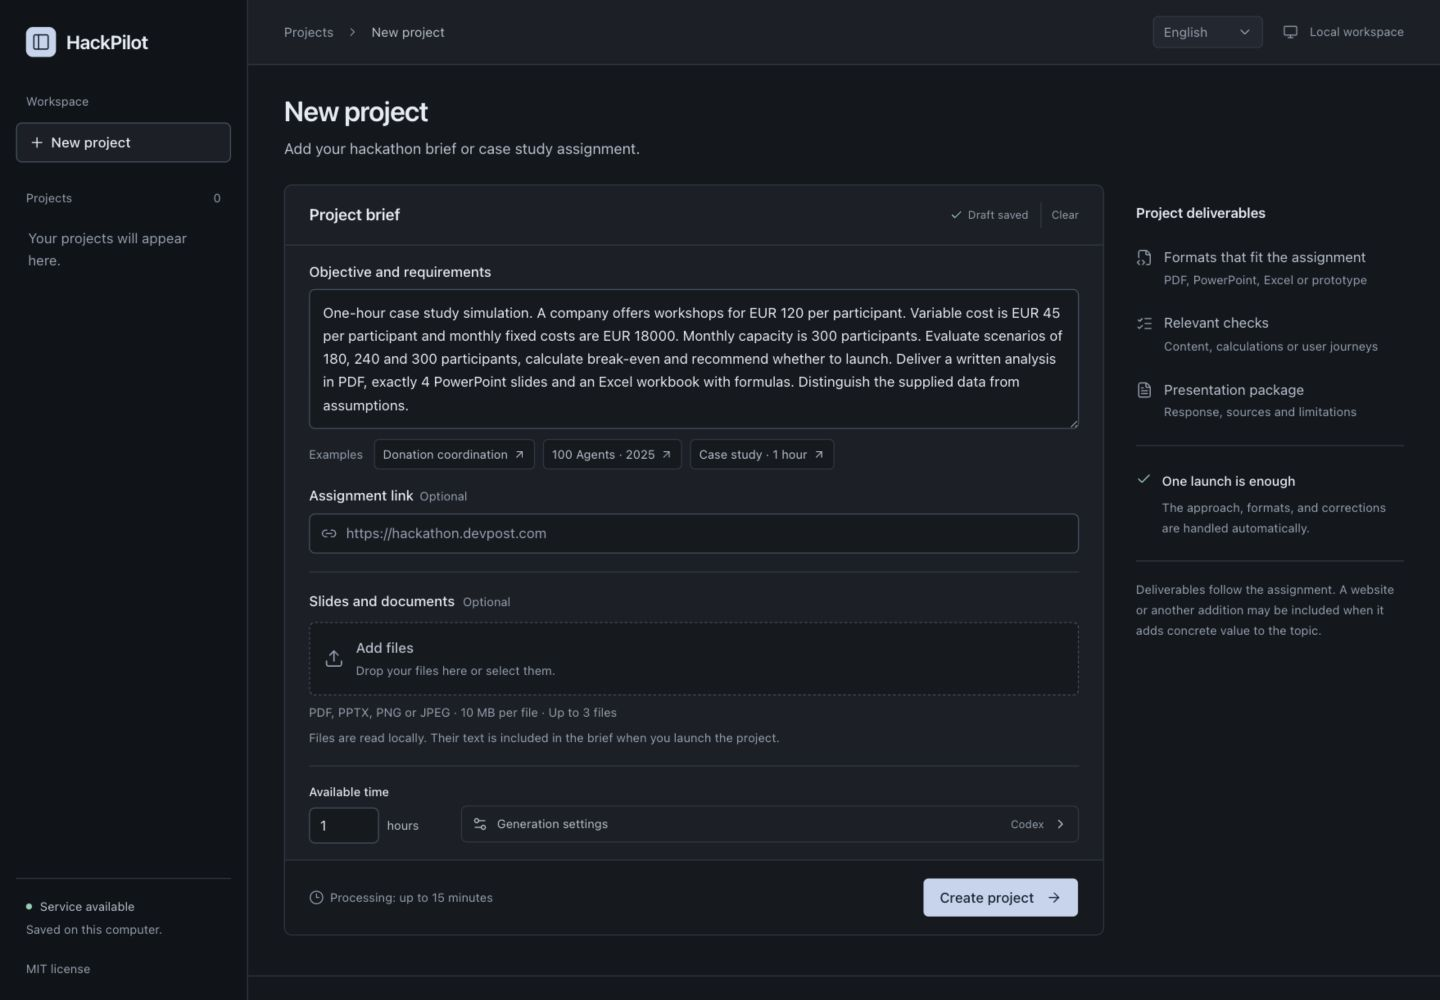
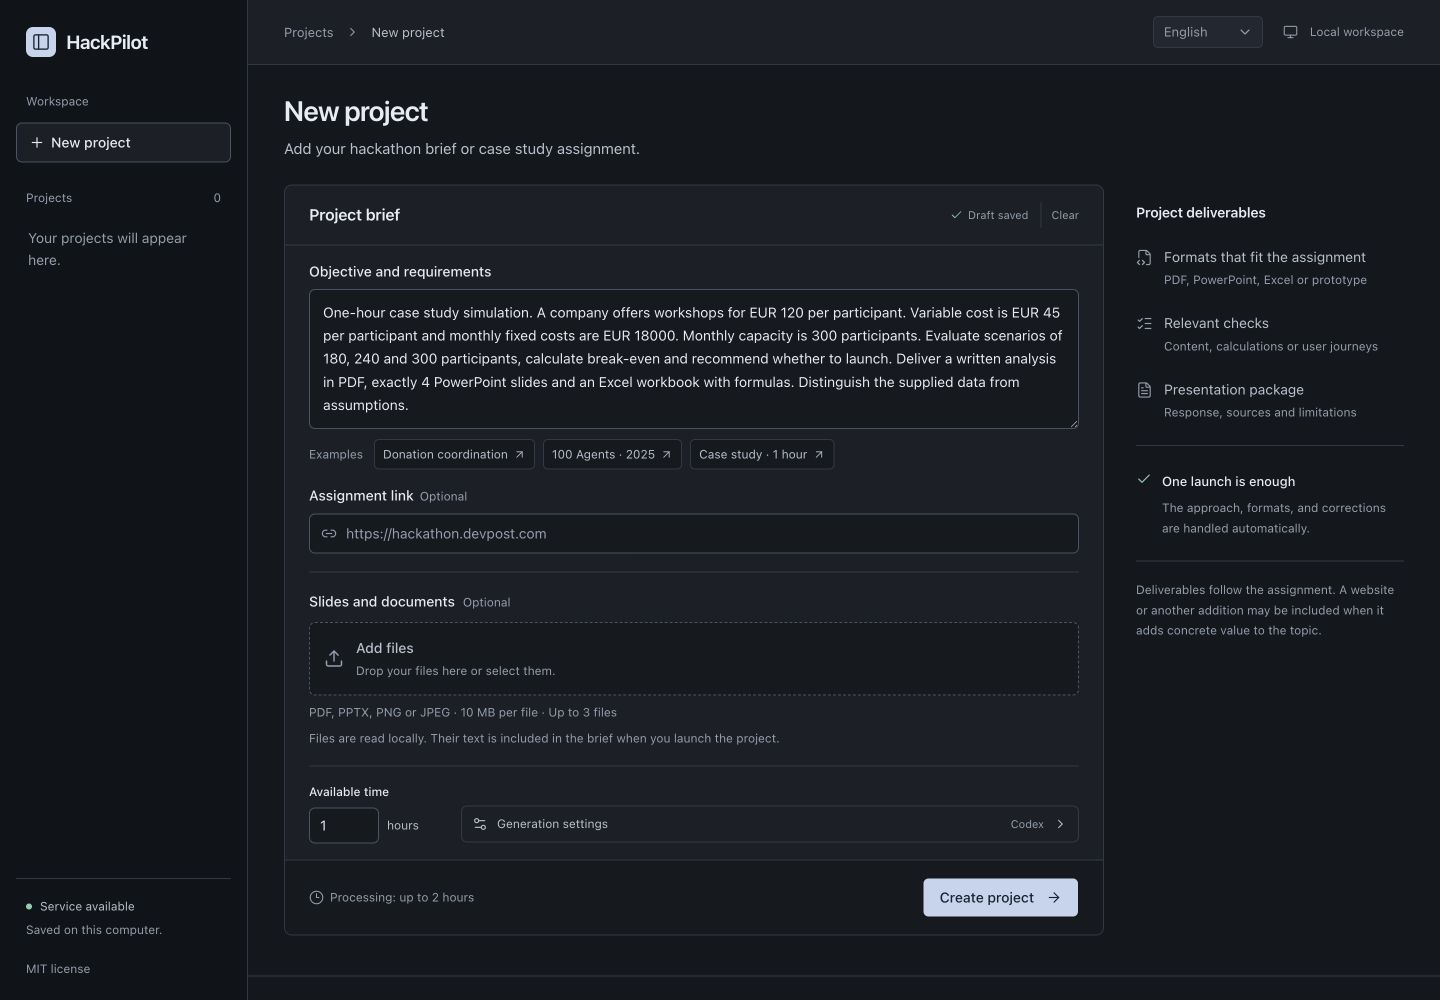
Extend execution limits to two hours and release v0.0.4

diff --git a/app/page.tsx b/app/page.tsx
@@ -733,7 +733,7 @@ export default function Home() {
                 <div className="launch-bottom">
                   <p>
                     <Clock3 size={15} />
-                    {t('Traitement : 15 min maximum')}
+                    {t('Traitement : 2 h maximum')}
                   </p>
                   <Button
                     type="submit"

diff --git a/components/run-progress.tsx b/components/run-progress.tsx
@@ -83,7 +83,7 @@ export function RunProgress({ mission }: { mission: Mission }) {
           {t(
             'Le projet avance automatiquement. Vous pouvez le laisser travailler.',
           )}{' '}
-          <span>{t('15 min maximum par tentative.')}</span>
+          <span>{t('2 h maximum par tentative.')}</span>
         </p>
       )}
     </section>

diff --git a/docs/USER_GUIDE.md b/docs/USER_GUIDE.md
@@ -84,13 +84,13 @@ Do not put credentials in a brief. Project exports include source material and s
 | Limit                                | Scope                              |
 | ------------------------------------ | ---------------------------------- |
 | One active project                   | Per server                         |
-| 15 minutes                           | Per execution attempt              |
-| Five minutes                         | Per Codex generation step          |
+| Two hours                            | Per execution attempt              |
+| Up to two hours                      | Per Codex step, within the attempt |
 | Nine model calls                     | Per project                        |
 | 300,000 input / 60,000 output tokens | Per project, checked between calls |
 | Two repairs                          | Per project                        |
 
-An individual call may cross a token threshold before the next check. Token limits are not a monetary cap; Codex account billing and usage limits still apply. The assignment's **available time** field guides project scope and does not change the engine's 15-minute attempt limit.
+An individual call may cross a token threshold before the next check. Token limits are not a monetary cap; Codex account billing and usage limits still apply. The assignment's **available time** field guides project scope and does not change the engine's two-hour attempt limit. The overall deadline includes all generation, verification, and repair steps; two hours is not added for each step.
 
 You can stop an active project. After a server restart, unfinished projects are marked interrupted. Resume uses saved work and the remaining project budget; it does not reset model usage or repair limits.
 

diff --git a/README.md b/README.md
@@ -1,6 +1,6 @@
 # HackPilot
 
-**v0.0.3** · first project using Astra :)
+**v0.0.4** · first project using Astra :)
 
 **Turn hackathon briefs and case studies into deliverables you can inspect, test, and export.**
 
@@ -68,7 +68,7 @@ Assignment → Sources → Plan → Production → Checks & repairs → Export
 4. Run format-specific checks, review the answer, and attempt repairs when needed.
 5. Package the files with the plan, sources, verification results, and remaining limitations.
 
-The **available time** field helps scope the project. A generation attempt has its own 15-minute limit. One project runs at a time; interrupted projects remain on disk and can be resumed within their remaining budgets.
+The **available time** field helps scope the project. A generation attempt has its own two-hour limit. One project runs at a time; interrupted projects remain on disk and can be resumed within their remaining budgets.
 
 ## Local storage and generation
 

diff --git a/CHANGELOG.md b/CHANGELOG.md
@@ -1,5 +1,11 @@
 # Changelog
 
+## 0.0.4 — 2026-09-05
+
+- Extend execution attempts and Codex step timeouts to two hours, with a shared overall deadline.
+- Update the interface and API limits to match the execution budget.
+- Preserve saved plans and model usage when resuming a timed-out project.
+
 ## 0.0.3 — 2026-09-05
 
 - Restore the open project, selected tab, and source reader after a page reload.
